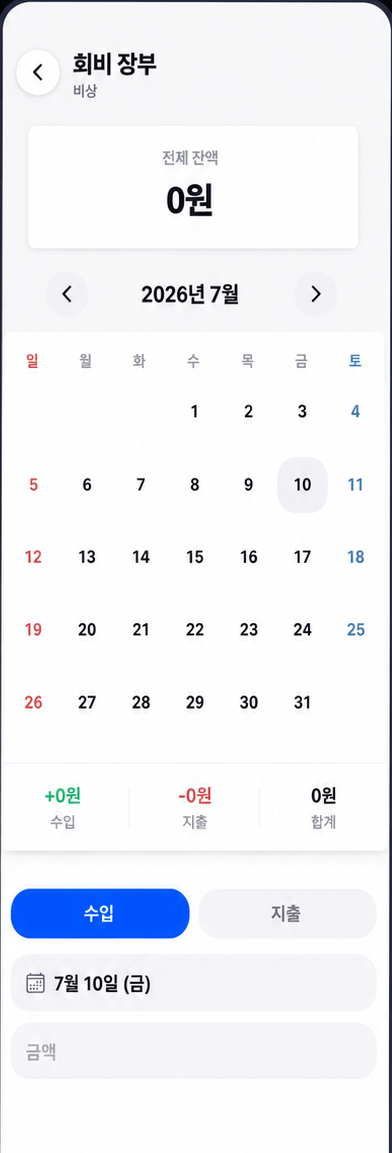
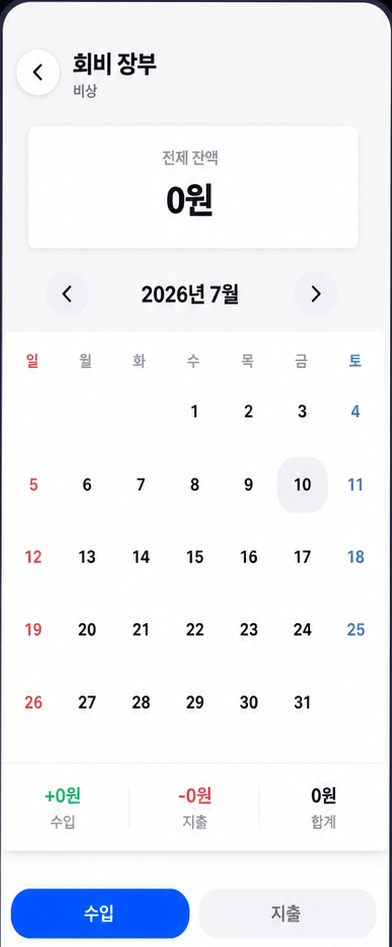
feat: apply newly updated public images and bump cache-busting version to v5

diff --git a/index.html b/index.html
@@ -81,12 +81,12 @@
               <div class="hero__preview-container" id="hero-preview">
                 <div class="preview-phone preview-phone--left">
                   <div class="preview-phone__inner">
-                    <img src="hero_left.png?v=4" alt="runt 앱 화면" class="preview-phone__img" />
+                    <img src="hero_left.png?v=5" alt="runt 앱 화면" class="preview-phone__img" />
                   </div>
                 </div>
                 <div class="preview-phone preview-phone--right">
                   <div class="preview-phone__inner">
-                    <img src="hero_light.png?v=4" alt="runt 앱 화면" class="preview-phone__img" />
+                    <img src="hero_light.png?v=5" alt="runt 앱 화면" class="preview-phone__img" />
                   </div>
                 </div>
               </div>
@@ -110,11 +110,11 @@
             <div class="fss-phone-col">
               <div class="fss-phone-frame">
                 <div class="fss-phone-screen">
-                  <!-- 4 images cycling (v=4 to bust cache) -->
-                  <img src="Attendance.png?v=4"  alt="원터치 출석"          class="fss-phone-img fss-img--active" data-idx="0" />
-                  <img src="money.png?v=4"       alt="정산"                 class="fss-phone-img"                data-idx="1" />
-                  <img src="ai_course.png?v=4"   alt="실시간 혼잡도"         class="fss-phone-img"                data-idx="2" />
-                  <img src="marathon.png?v=4"    alt="마라톤 대회 일정 확인" class="fss-phone-img"                data-idx="3" />
+                  <!-- 4 images cycling (v=5 to bust cache) -->
+                  <img src="Attendance.png?v=5"  alt="원터치 출석"          class="fss-phone-img fss-img--active" data-idx="0" />
+                  <img src="money.png?v=5"       alt="정산"                 class="fss-phone-img"                data-idx="1" />
+                  <img src="ai_course.png?v=5"   alt="실시간 혼잡도"         class="fss-phone-img"                data-idx="2" />
+                  <img src="marathon.png?v=5"    alt="마라톤 대회 일정 확인" class="fss-phone-img"                data-idx="3" />
                 </div>
               </div>
 